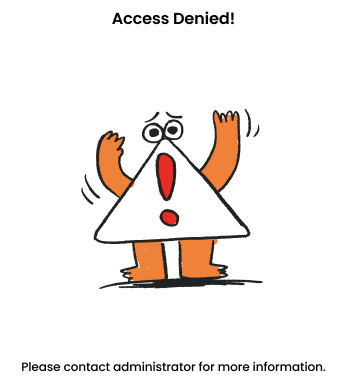
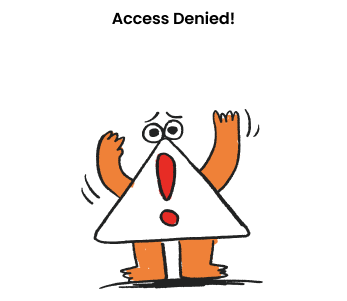
crop text from image & use custom text widget

Changed region(s): [[0.0576, 0.2691, 0.951, 0.9867], [0.317, 0.0299, 0.6916, 0.0897]]

diff --git a/lib/accountnotexist.dart b/lib/accountnotexist.dart
@@ -18,6 +18,18 @@ class AccountNotExist extends StatelessWidget {
               ),
             ),
           ),
+          Center(
+            child: Padding(
+              padding: EdgeInsets.fromLTRB(0, 80, 0, 0),
+              child: Text(
+                'Please contact administrator for more information',
+                style: TextStyle(
+                  fontWeight: FontWeight.bold,
+                  color: Colors.black,
+                ),
+              ),
+            ),
+          ),
           Padding(
             padding: EdgeInsets.fromLTRB(0, 60, 0, 0),
             child: GestureDetector(

diff --git a/lib/accessdenied.dart b/lib/accessdenied.dart
@@ -17,6 +17,18 @@ class AccessDenied extends StatelessWidget {
               ),
             ),
           ),
+          Center(
+            child: Padding(
+              padding: EdgeInsets.fromLTRB(0, 80, 0, 0),
+              child: Text(
+                'Please contact administrator for more information',
+                style: TextStyle(
+                  fontWeight: FontWeight.bold,
+                  color: Colors.black,
+                ),
+              ),
+            ),
+          ),
           Padding(
             padding: EdgeInsets.fromLTRB(0, 60, 0, 0),
             child: GestureDetector(

diff --git a/lib/somethingwentwrong.dart b/lib/somethingwentwrong.dart
@@ -16,6 +16,18 @@ class SomethingWentWrong extends StatelessWidget {
               ),
             ),
           ),
+          Center(
+            child: Padding(
+              padding: EdgeInsets.fromLTRB(0, 80, 0, 0),
+              child: Text(
+                'We are working on the problem right away.',
+                style: TextStyle(
+                  fontWeight: FontWeight.bold,
+                  color: Colors.black,
+                ),
+              ),
+            ),
+          ),
           Padding(
             padding: EdgeInsets.fromLTRB(0, 60, 0, 0),
             child: GestureDetector(
